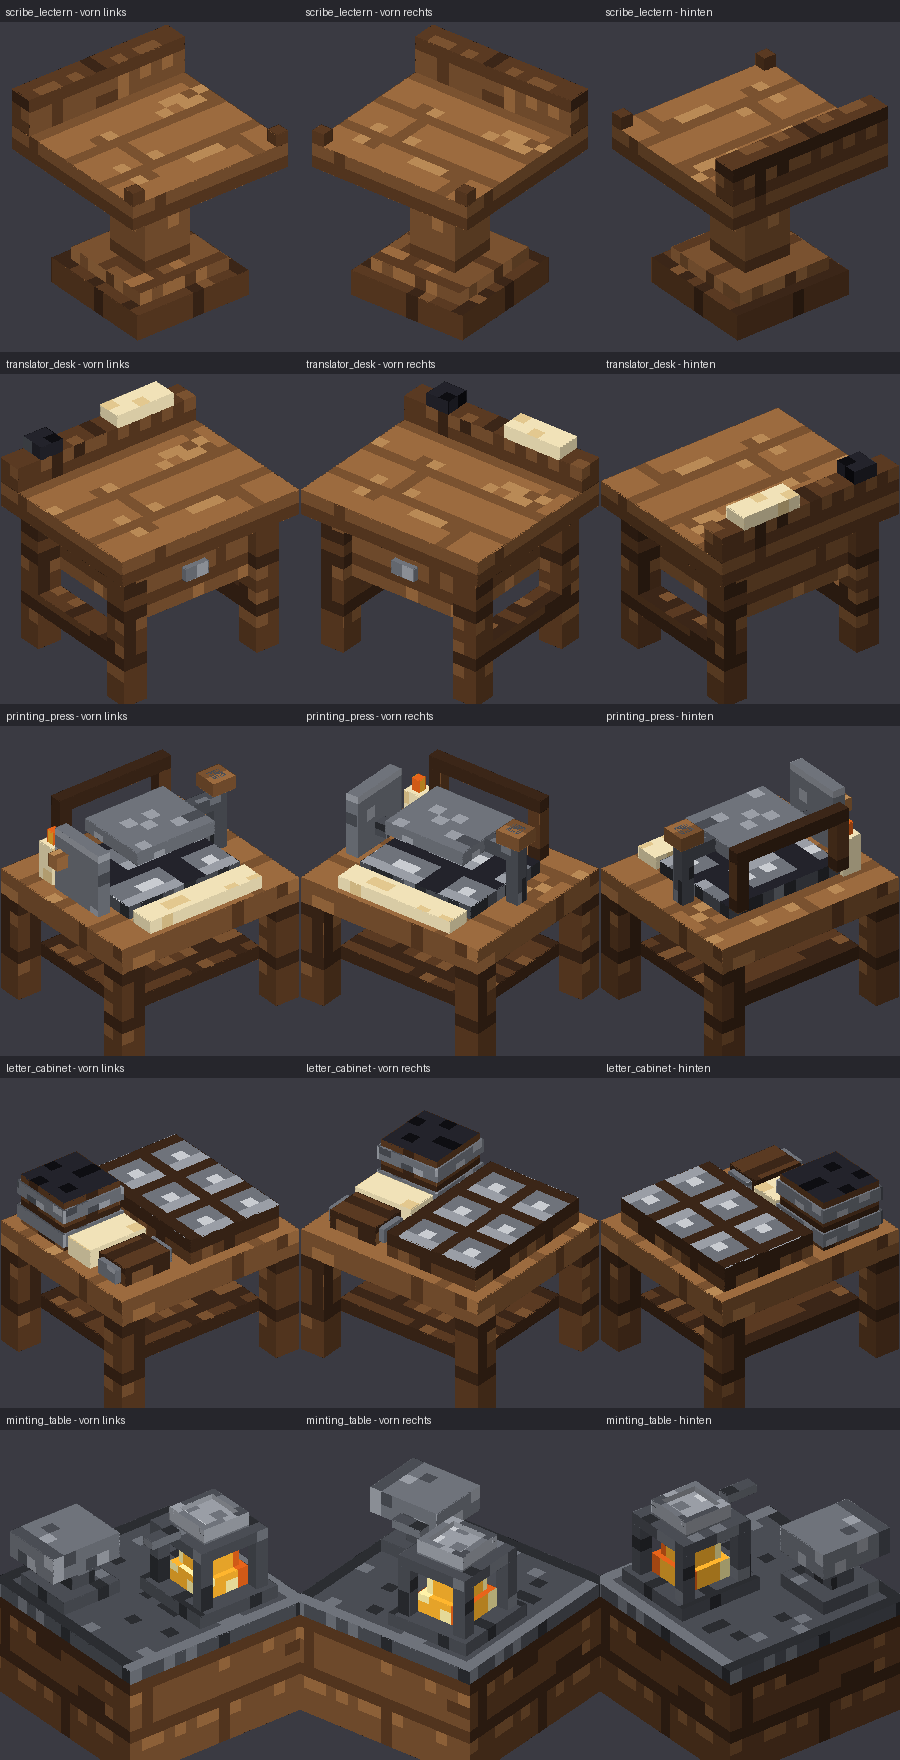
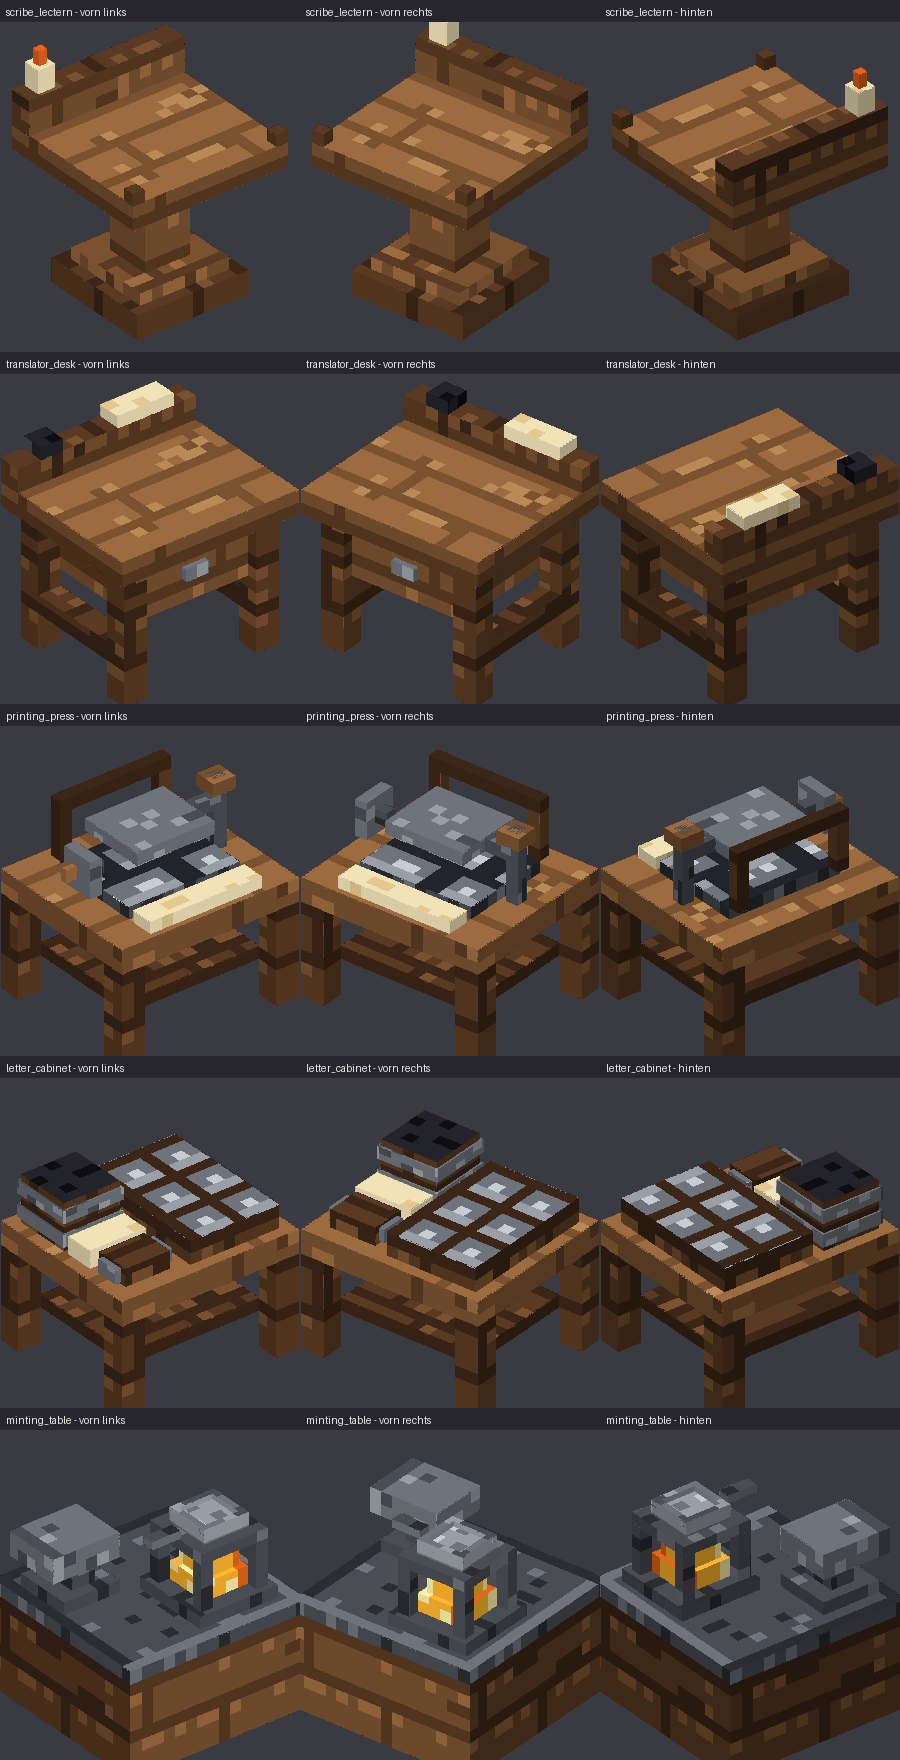
Kerze auf das Pult, kleinere Kurbel, animierte Flamme und Flammenteilchen am Minting Table
Claude-Session: https://claude.ai/code/session_01XVdvK4hXvgFVjrFY7Gbf3r

diff --git a/art/gen_stations.py b/art/gen_stations.py
@@ -228,6 +228,15 @@ def write_textures():
     tex = {}
     for name, fn in MATERIALS.items():
         im = tile(fn, SEEDS[name])
+        if name == "flame":     # animierte Flamme: 4 Bilder untereinander (siehe station_flame.png.mcmeta)
+            strip = Image.new("RGB", (16, 64))
+            for k in range(4):
+                strip.paste(tile(fn, SEEDS[name] + 10 * k), (0, 16 * k))
+            strip.save(os.path.join(RES, "textures/block", "station_flame.png"))
+            with open(os.path.join(RES, "textures/block", "station_flame.png.mcmeta"), "w", newline="\n") as f:
+                f.write('{\n  "animation": {\n    "frametime": 3\n  }\n}\n')
+            tex[name] = tile(fn, SEEDS[name])
+            continue
         im.save(os.path.join(RES, "textures/block", f"station_{name}.png"))
         tex[name] = im
     return tex
@@ -252,6 +261,7 @@ MODELS["scribe_lectern"] = [
     box((1, 13, 13), (15, 16, 15), "dark", north=("wood", None)),
     box((1, 13, 1), (2, 14, 2), "dark"),
     box((14, 13, 1), (15, 14, 2), "dark"),
+    box((12.5, 16, 13.3), (14, 18, 14.8), "paper"), box((12.9, 18, 13.7), (13.6, 19.2, 14.4), "flame"),
 ]
 SHAPES["scribe_lectern"] = [(3, 0, 3, 13, 3, 13), (6, 3, 6, 10, 11, 10), (1, 11, 1, 15, 13, 15), (1, 13, 13, 15, 16, 15)]
 
@@ -283,9 +293,8 @@ MODELS["printing_press"] = TABLE + [
     box((4.5, 13.5, 5), (11.5, 14.5, 11), "iron"),
     box((1.5, 10, 7.5), (2.5, 16, 8.5), "irond"), box((2.5, 13.5, 7.5), (4.5, 14.5, 8.5), "irond"),
     box((1, 15, 7), (3, 16, 9), "light"),
-    box((13, 11.5, 7), (14, 12.5, 8), "irond"), box((14, 10.5, 5), (15, 15.5, 10), "iron"),
-    box((15, 13, 8.5), (16, 14, 9.5), "light"),
-    box((13, 10, 11), (14.5, 13, 12.5), "paper"), box((13.4, 13, 11.4), (14.1, 14, 12.1), "flame"),
+    box((13, 12.5, 7), (14, 13.5, 8), "irond"), box((14, 11.5, 6), (15, 14.5, 9), "iron"),
+    box((15, 12.5, 7.5), (16, 13.5, 8.5), "light"),
 ]
 SHAPES["printing_press"] = [(0, 0, 1, 16, 10, 15), (1, 10, 1, 16, 16, 13)]
 
@@ -305,7 +314,7 @@ MODELS["minting_table"] = [
     box((0, 0, 0), (16, 8, 16), "dark", north=("wood", None)),
     box((0, 8, 0), (16, 9, 16), "irond", up=("irond", None)),
     box((1.5, 9, 1.5), (8.5, 10, 8.5), "stone"),
-    box((3, 10, 3), (7, 11.5, 7), "flame"), box((3.5, 11.5, 3.5), (6.5, 13, 6.5), "flame"), box((4.2, 13, 4.2), (5.8, 14, 5.8), "flame"),
+    box((3, 10, 3), (7, 11.5, 7), "flame"), box((3.5, 11.5, 3.5), (6.5, 13, 6.5), "flame"), box((4.2, 13, 4.2), (5.8, 14, 5.8), "flame"),   # Flammenwuerfel mit animierter Textur
     box((2, 10, 2), (3, 14, 3), "irond"), box((7, 10, 2), (8, 14, 3), "irond"),
     box((2, 10, 7), (3, 14, 8), "irond"), box((7, 10, 7), (8, 14, 8), "irond"),
     box((2, 14, 2), (8, 14.8, 8), "irond"),

diff --git a/mod/src/main/java/de/scribery/ModBlocks.java b/mod/src/main/java/de/scribery/ModBlocks.java
@@ -42,9 +42,9 @@ public final class ModBlocks {
         return b;
     }
 
-    public static final DeferredBlock<Block> SCRIBE_LECTERN = station("scribe_lectern", ScribeLecternBlock::new, false, 0);
+    public static final DeferredBlock<Block> SCRIBE_LECTERN = station("scribe_lectern", ScribeLecternBlock::new, false, 5);
     public static final DeferredBlock<Block> LETTER_CABINET = station("letter_cabinet", CabinetBlock::new, false, 0);
-    public static final DeferredBlock<Block> PRINTING_PRESS = station("printing_press", GroupStationBlock::new, false, 5);
+    public static final DeferredBlock<Block> PRINTING_PRESS = station("printing_press", GroupStationBlock::new, false, 0);
     public static final DeferredBlock<Block> TRANSLATOR_DESK = station("translator_desk", DeskBlock::new, false, 0);
     public static final DeferredBlock<Block> MANUSCRIPT_ARCHIVE = station("manuscript_archive", ArchiveBlock::new);
     public static final DeferredBlock<Block> MINTING_TABLE = station("minting_table", MintBlock::new, false, 7);

diff --git a/mod/src/main/java/de/scribery/MintBlock.java b/mod/src/main/java/de/scribery/MintBlock.java
@@ -22,6 +22,16 @@ public class MintBlock extends FacingBlock {
         super(props);
     }
 
+    /** Flamme unter dem Tiegel (Modell: Mitte bei x 5, z 5) und etwas Rauch darueber. */
+    @Override
+    public void animateTick(BlockState state, Level level, BlockPos pos, net.minecraft.util.RandomSource random) {
+        StationShapes.flame(level, pos, state.getValue(FACING), 5.0, 12.5, 5.0, random);
+        if (random.nextFloat() < 0.15F) {
+            double[] c = StationShapes.rotate(5.0, 5.0, state.getValue(FACING));
+            level.addParticle(net.minecraft.core.particles.ParticleTypes.SMOKE, pos.getX() + c[0], pos.getY() + 1.1, pos.getZ() + c[1], 0, 0.01, 0);
+        }
+    }
+
     @Override
     protected double[][] boxes() {
         return StationShapes.MINTING_TABLE;

diff --git a/mod/src/main/java/de/scribery/ScribeLecternBlock.java b/mod/src/main/java/de/scribery/ScribeLecternBlock.java
@@ -29,6 +29,12 @@ public class ScribeLecternBlock extends FacingBlock implements EntityBlock {
         super(props);
     }
 
+    /** Kerze auf der Rueckwand (Modell: Flamme bei x 13.25, y 19, z 14). */
+    @Override
+    public void animateTick(BlockState state, Level level, BlockPos pos, net.minecraft.util.RandomSource random) {
+        StationShapes.flame(level, pos, state.getValue(FACING), 13.25, 19.0, 14.0, random);
+    }
+
     @Override
     protected double[][] boxes() {
         return StationShapes.SCRIBE_LECTERN;
